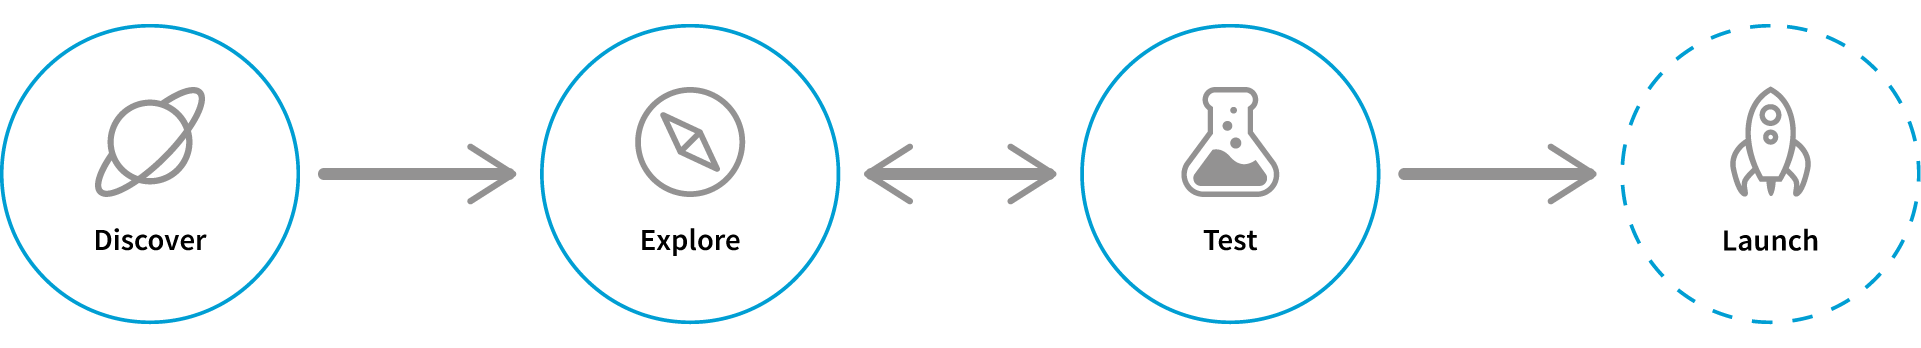
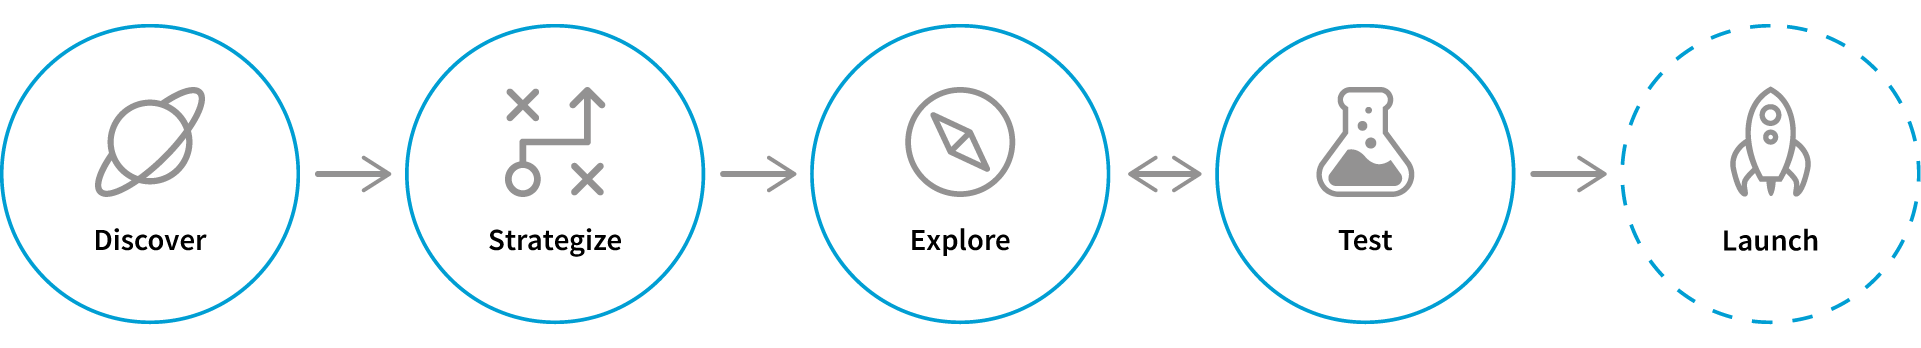
About Page: updated design process

diff --git a/about.html b/about.html
@@ -120,7 +120,7 @@
 
 					<div class="my-design-process-text" id="animation-wrapper">
 						<h2>MY DESIGN PROCESS</h2>
-						<h4>When I start a project, I first take a deep dive into the topic, followed an iterative cycle of sketching, trying different concepts and user testing. Once it is ready, the design is ready to implement and deliver.</h4>
+						<h4>When I start a project, I first take a deep dive into the topic to strategize on a product, followed by an iterative cycle of sketching, trying different concepts and conducting user study. Once it is ready, the design is can be implemented and deliver.</h4>
 						
 						<!-- Design Process Start -->
 						<div class="design-process" id="animation-wrapper">
